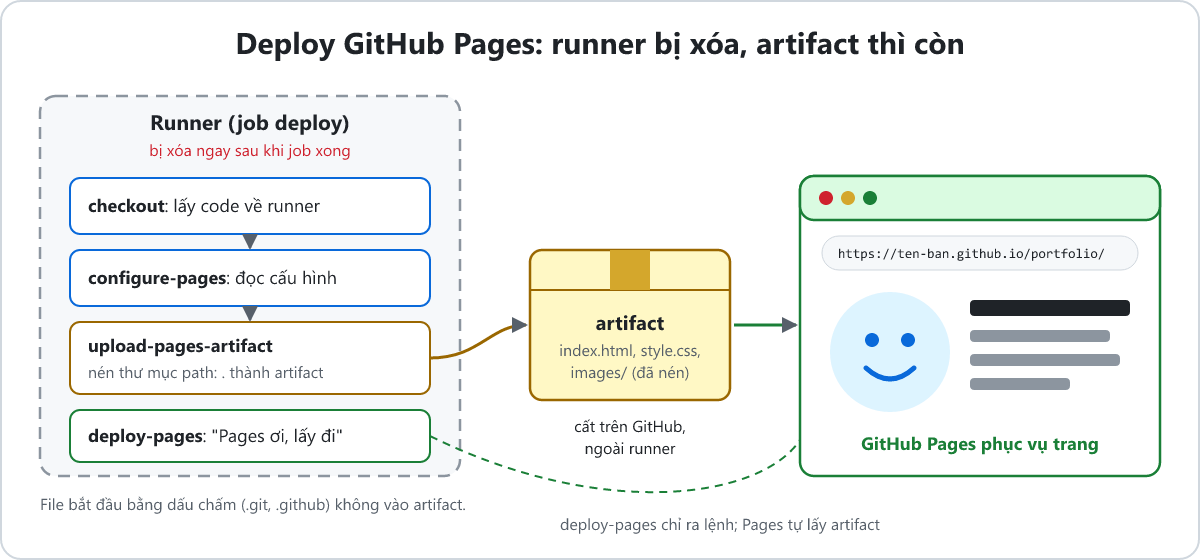
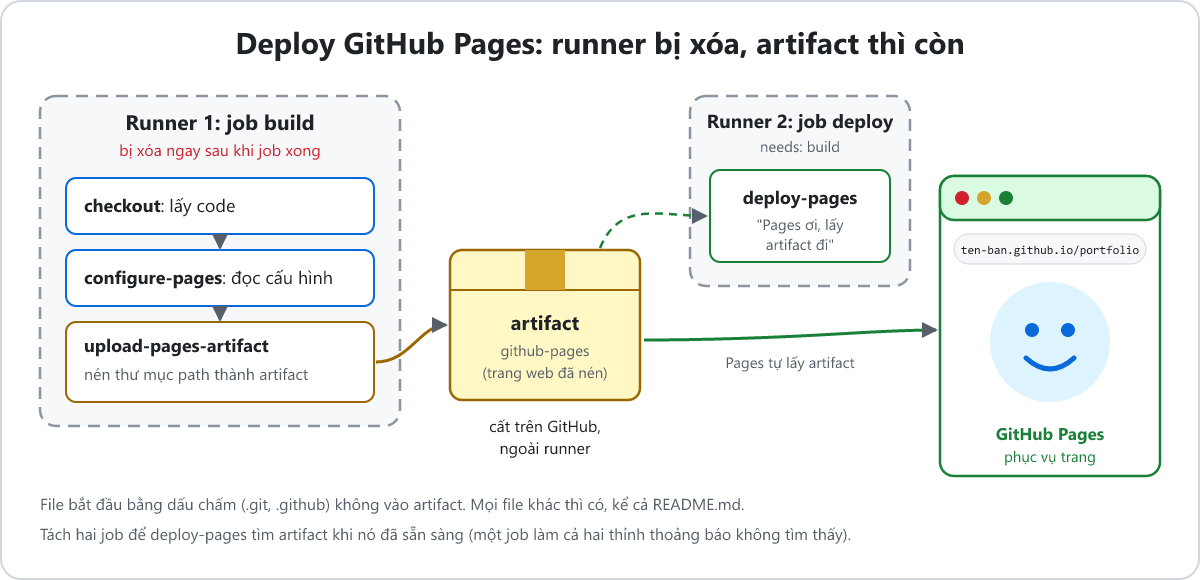
github-actions-basics: sửa theo lần chạy thử thật (#3)
Chạy lại chương 1–7 trên một repo sandbox công khai và sửa mọi chỗ bài học
khác thực tế: tách job build/deploy cho Pages, log thật của lychee, node --test,
GH013, environment, cache, script injection. Thêm ghi chú chương 6–7 là nâng cao,
phân biệt với track actions-docker, và sửa link tới example-track đã xóa.

Refs #2

diff --git a/tracks/github-actions-basics/modules/02-deploy-pages/lessons/02-link-check.md b/tracks/github-actions-basics/modules/02-deploy-pages/lessons/02-link-check.md
@@ -10,7 +10,7 @@ objectives:
 prerequisites:
   - github-actions-basics/deploy-pages/pages-workflow
 authors: [github:TienNHM]
-terms: [CI, CD, lychee, needs, if]
+terms: [CI, CD, lychee, if]
 ---
 
 # Chặn link hỏng trước khi deploy
@@ -23,17 +23,18 @@ terms: [CI, CD, lychee, needs, if]
 
 Ta dùng nó qua action `lycheeverse/lychee-action`, nên không cần cài gì lên máy.
 
-## 2. Hai job nối nhau bằng `needs`
+## 2. Ba job nối nhau bằng `needs`
 
-Nhớ lại chương 1: các job **mặc định chạy song song**. Nếu `check-links` và `deploy` chạy cùng lúc, link hỏng vẫn được deploy trước khi kiểm tra kịp báo đỏ. **`needs`** (*cần*) bắt một job chờ job khác:
+Bài trước đã có `needs: build`. Nhớ lại chương 1: các job **mặc định chạy song song**. Nếu `check-links` chạy song song với `build` và `deploy`, link hỏng vẫn được deploy trước khi kiểm tra kịp báo đỏ. Ta nối thành một chuỗi: `check-links` → `build` → `deploy`.
 
 ```mermaid
 flowchart LR
   P["push lên main"] --> C["job check-links"]
-  C -- xanh --> D["job deploy"]
-  C -- đỏ --> X["deploy bị bỏ qua, trang cũ giữ nguyên"]
+  C -->|"xanh"| B["job build"]
+  B --> D["job deploy"]
+  C -->|"đỏ"| X["build, deploy bị bỏ qua, trang cũ giữ nguyên"]
   PR["pull request"] --> C2["job check-links"]
-  C2 --> S["job deploy: bỏ qua vì if"]
+  C2 --> S["build bỏ qua vì if, deploy bỏ qua theo"]
 ```
 
 ## 3. Workflow hoàn chỉnh
@@ -65,22 +66,11 @@ jobs:
           args: --offline --no-progress '**/*.html'
           fail: true
 
-  deploy:
+  build:
     needs: check-links
-    # Chỉ deploy khi push lên main hoặc bấm Run workflow, không deploy từ pull request
+    # Chỉ đóng gói và deploy khi push lên main hoặc bấm Run workflow, không làm từ pull request
     if: github.event_name != 'pull_request'
     runs-on: ubuntu-latest
-    permissions:
-      contents: read
-      pages: write
-      id-token: write
-    # Không cho hai lần deploy chạy chồng lên nhau
-    concurrency:
-      group: pages
-      cancel-in-progress: false
-    environment:
-      name: github-pages
-      url: ${{ steps.deployment.outputs.page_url }}
     steps:
       - uses: actions/checkout@v7
 
@@ -91,6 +81,20 @@ jobs:
         with:
           path: .
 
+  deploy:
+    needs: build
+    runs-on: ubuntu-latest
+    permissions:
+      pages: write
+      id-token: write
+    # Không cho hai lần deploy chạy chồng lên nhau
+    concurrency:
+      group: pages
+      cancel-in-progress: false
+    environment:
+      name: github-pages
+      url: ${{ steps.deployment.outputs.page_url }}
+    steps:
       - name: Deploy lên GitHub Pages
         id: deployment
         uses: actions/deploy-pages@v5
@@ -103,8 +107,9 @@ jobs:
   - `lycheeverse/lychee-action@v2.9.0`: ghi đủ `v2.9.0` để biết chính xác bản đang chạy (tag `v2` cũng có, trỏ tới bản `v2.x` mới nhất).
   - `args`: tham số truyền cho lychee. `--offline` chỉ kiểm tra link trong repo; `--no-progress` tắt thanh tiến trình cho log gọn; `'**/*.html'` là mọi file `.html` ở mọi thư mục (`**` = mọi thư mục con). Giữ dấu nháy đơn để lychee tự tìm file.
   - `fail: true`: có link hỏng thì step đỏ (exit code khác 0).
-- `needs: check-links`: job `deploy` chờ `check-links` xong và **chỉ chạy khi nó xanh**.
-- `if: github.event_name != 'pull_request'`: **`if`** (*nếu*) là điều kiện; sai thì job bị bỏ qua (màu xám, *skipped*). `github.event_name` là tên event đã kích hoạt lần chạy, `!=` là "khác". Đọc cả dòng: "chỉ chạy nếu event **không phải** pull request". Trên PR ta chỉ kiểm tra, không deploy bản chưa được duyệt.
+- `needs: check-links`: job `build` chờ `check-links` xong và **chỉ chạy khi nó xanh**. Job `deploy` vẫn `needs: build` như bài trước.
+- `if: github.event_name != 'pull_request'`: **`if`** (*nếu*) là điều kiện; sai thì job bị bỏ qua (màu xám, *skipped*). `github.event_name` là tên event đã kích hoạt lần chạy, `!=` là "khác". Đọc cả dòng: "chỉ chạy nếu event **không phải** pull request". Trên PR ta chỉ kiểm tra, không đóng gói, không deploy bản chưa được duyệt.
+- Job `deploy` không cần `if` riêng: job nó `needs` (`build`) bị bỏ qua thì nó cũng bị bỏ qua. Trên PR, bạn thấy `check-links` xanh, còn `build` và `deploy` đều **skipped**.
 
 ## 4. Thử làm hỏng
 
@@ -123,25 +128,35 @@ git push -u origin thu-link-hong
 - `git commit -am`: `-a` = *all*, tự `add` mọi file đã theo dõi có thay đổi; `-m` = *message*.
 - `git push -u origin thu-link-hong`: đẩy nhánh lên GitHub; `-u` nhớ nhánh trên GitHub để lần sau chỉ cần `git push`.
 
-Mở pull request từ nhánh đó trên GitHub. Job `check-links` đỏ, log có dạng:
+Mở pull request từ nhánh đó trên GitHub. Job `check-links` đỏ. Cuối log của step **Kiểm tra link hỏng** có một bản tóm tắt (log thật, rút gọn vài dòng có số 0):
 
 ```text
-Issues found in 1 input. Find details below.
+# Summary
 
-[index.html]:
-[ERROR] file:///home/runner/work/portfolio/portfolio/abuot.html (at 12:15) | File not found. Check if file exists and path is correct
+| Status         | Count |
+|----------------|-------|
+| 🔍 Total       | 3     |
+| ✅ Successful  | 2     |
+| 🚫 Errors      | 1     |
 
-🔍 9 Total 🔗 9 Unique ✅ 8 OK 🚫 1 Error
+## Errors per input
+
+### Errors in index.html
+
+* [ERROR] <file:///home/runner/work/portfolio/portfolio/abuot.html> (at 1:106) | File not found. Check if file exists and path is correct
+
+Error: Process completed with exit code 2.
 ```
 
 **Đọc hiểu**
 
-- `[index.html]:` là file **chứa** link hỏng.
+- Bảng `Summary`: lychee tìm được 3 link, 2 tốt, 1 lỗi. Số của bạn sẽ khác, tuỳ trang.
+- `### Errors in index.html`: file **chứa** link hỏng.
 - `file:///home/runner/work/portfolio/portfolio/` là thư mục repo **trên runner** (checkout đặt code ở đó). Đây là bằng chứng lychee chạy trên máy ảo, không phải máy bạn.
-- `abuot.html` là file mà link trỏ tới nhưng không có. `(at 12:15)` là dòng 12, cột 15 trong `index.html`.
-- Dòng cuối đếm: 9 link, 8 tốt, 1 lỗi. Số của bạn sẽ khác, tuỳ trang.
+- `abuot.html` là file mà link trỏ tới nhưng không có. `(at 1:106)` là dòng 1, cột 106 trong `index.html`.
+- Bảng này cũng hiện ở trang lần chạy, mục **Summary**, dễ đọc hơn log.
 
-Sửa lại, commit, push lên nhánh: PR tự chạy lại và xanh. Job `deploy` trên PR luôn hiện **skipped**.
+Sửa lại, commit, push lên nhánh: PR tự chạy lại và xanh. Job `build` và `deploy` trên PR luôn hiện **skipped**.
 
 ## 5. Kiểm tra cả link ra ngoài?
 
@@ -162,11 +177,11 @@ Bỏ `--offline` thì lychee kiểm tra cả link tới LinkedIn, GitHub… Có 
 | Lỗi | Vì sao | Cách sửa |
 | --- | --- | --- |
 | `check-links` đỏ dù trang mở được trên máy | Sai hoa thường tên file (Windows, macOS không phân biệt, runner Linux thì có) | Đổi link cho khớp đúng tên file |
-| `deploy` chạy trên PR | Thiếu hoặc sai dòng `if` | Chép lại đúng dòng `if` ở mục 3 |
+| `build`, `deploy` chạy trên PR | Thiếu hoặc sai dòng `if` của job `build` | Chép lại đúng dòng `if` ở mục 3 |
 | Lỗi khác, hoặc chưa hiểu vì sao | | Gửi link lần chạy cho mentor, công khai hay **nhắn riêng** đều được (tab **Cài đặt** → "Hỏi ở đâu") |
 
 ## Tóm tắt
 
 - CI kiểm tra tự động mỗi lần thay đổi; lychee `--offline` bắt link hỏng trong repo.
-- `needs` nối job: deploy chỉ chạy khi kiểm tra xanh.
+- `needs` nối job thành chuỗi `check-links` → `build` → `deploy`: chỉ deploy khi kiểm tra xanh.
 - `if: github.event_name != 'pull_request'`: trên PR chỉ kiểm tra, không deploy.

diff --git a/tracks/github-actions-basics/modules/01-actions-basics/lessons/02-first-workflow.md b/tracks/github-actions-basics/modules/01-actions-basics/lessons/02-first-workflow.md
@@ -116,7 +116,22 @@ git push
 - `git add` đưa file workflow vào commit tiếp theo; `git commit` chốt; `git push` gửi lên GitHub.
 - Chính lệnh `git push` là **event** `push` đánh thức workflow.
 
-Mở repo trên GitHub, vào tab **Actions**. Bạn sẽ thấy một lần chạy mang tên commit message, chấm vàng (đang chạy) rồi dấu tick xanh. Bấm vào lần chạy, chọn job `hello`, mở từng step để xem output. Step **Chào** in tên repo và mã commit của bạn.
+Mở repo trên GitHub, vào tab **Actions**. Bạn sẽ thấy một lần chạy mang tên commit message, chấm vàng (đang chạy) rồi dấu tick xanh. Bấm vào lần chạy, chọn job `hello`, mở từng step để xem output. Ngoài ba step bạn viết, GitHub tự thêm step **Set up job** ở đầu (chuẩn bị máy) và **Complete job** ở cuối (dọn dẹp).
+
+Mở step **Chào**. Đây là log thật của một lần chạy thử (repo khác của bạn sẽ khác tên và mã commit):
+
+```text
+Run echo "Xin chào từ ten-ban/portfolio, commit 134130cedc6d21de4fc7d3d5b32e02055f8aceb9"
+  echo "Xin chào từ ten-ban/portfolio, commit 134130cedc6d21de4fc7d3d5b32e02055f8aceb9"
+  shell: /usr/bin/bash -e {0}
+Xin chào từ ten-ban/portfolio, commit 134130cedc6d21de4fc7d3d5b32e02055f8aceb9
+```
+
+**Đọc hiểu**
+
+- Dòng `Run echo ...` là lệnh runner **nhận được**: biểu thức `${{ }}` đã được thay bằng giá trị thật từ trước. Runner không hề thấy chữ `${{ github.repository }}`.
+- `shell: /usr/bin/bash -e {0}`: runner chạy lệnh bằng bash; `-e` nghĩa là dừng ngay khi có lệnh lỗi (bài sau).
+- Dòng cuối là output của `echo`.
 
 Repo **public** chạy Actions miễn phí. Repo private dùng vào số phút miễn phí hằng tháng của tài khoản.
 
@@ -154,7 +169,7 @@ on:
 - Dùng Tab để thụt lề: `Invalid workflow file`.
 - Viết `uses` và `run` trong **cùng một** step: mỗi step chỉ chọn một.
 - Quên `@v7`: GitHub báo lỗi vì không biết dùng phiên bản nào.
-- Viết `run: echo "Kết quả: xong"` trên một dòng: chữ `: ` (dấu hai chấm rồi dấu cách) bên trong làm YAML tưởng có thêm một khóa, báo `mapping values are not allowed`. Cách chắc ăn: viết `run: |` rồi đặt lệnh ở dòng dưới, thụt vào thêm 2 dấu cách:
+- Viết `run: echo "Kết quả: xong"` trên một dòng: chữ `: ` (dấu hai chấm rồi dấu cách) bên trong làm YAML tưởng có thêm một khóa. Khi chạy thử thật, lần chạy đỏ ngay, mang tên đường dẫn file (`.github/workflows/hello.yml`) thay cho commit message, và trang lần chạy báo `Invalid workflow file` kèm `You have an error in your yaml syntax on line 15` (số dòng của bạn có thể khác). Cách chắc ăn: viết `run: |` rồi đặt lệnh ở dòng dưới, thụt vào thêm 2 dấu cách:
 
   ```yaml
         run: |
@@ -170,7 +185,7 @@ Trong nhóm, file workflow được review như code: nó nằm trong repo, đi 
 | Lỗi | Vì sao | Cách sửa |
 | --- | --- | --- |
 | Tab Actions không có lần chạy nào | File sai thư mục hoặc sai đuôi | Đường dẫn phải là `.github/workflows/<tên>.yml` |
-| `Invalid workflow file` | Lỗi YAML | Mở file trên GitHub, dòng lỗi được tô đỏ; thường là Tab hoặc thiếu dấu cách sau `:` |
+| `Invalid workflow file`, kèm `You have an error in your yaml syntax on line N` | Lỗi YAML | Mở dòng N của file; thường là Tab, thiếu dấu cách sau `:`, hoặc `: ` nằm trong lệnh `run` một dòng |
 | `ls -la` chỉ thấy `.` và `..` | Thiếu step checkout | Thêm `uses: actions/checkout@v7` làm step đầu |
 | Lỗi khác, hoặc chưa hiểu vì sao | | Nhắn mentor của track, công khai hay **nhắn riêng** đều được (tab **Cài đặt** → "Hỏi ở đâu") |
 

diff --git a/TEACHING.md b/TEACHING.md
@@ -2,7 +2,7 @@
 
 Chuẩn này đến từ góp ý của thành viên mới sau **Git & GitHub Study Jam 2026** ([learning-hub-track-template#7](https://github.com/hcmute-dsc/learning-hub-track-template/issues/7)). Người học không than bài khó. Họ than ba điều: học lệnh mà không hiểu chữ, phải hỏi AI mới hiểu bài, và ngại hỏi người dạy.
 
-Mỗi bài học và bài tập trong track phải đạt **6 tiêu chí** dưới đây. Người review kiểm tra theo checklist trong mẫu Pull Request. Bài mẫu áp dụng đủ 6 tiêu chí: [`03-teaching-standard.md`](tracks/example-track/modules/01-getting-started/lessons/03-teaching-standard.md).
+Mỗi bài học và bài tập trong track phải đạt **6 tiêu chí** dưới đây. Người review kiểm tra theo checklist trong mẫu Pull Request. Bài mẫu áp dụng đủ 6 tiêu chí: [`02-ci-workflow.md`](tracks/github-actions-basics/modules/03-ci-tests/lessons/02-ci-workflow.md) (chương 3, "Workflow CI": có từ vựng, phần Đọc hiểu sau mỗi khối lệnh, sơ đồ, Ngoài thực tế, bảng Khi bị lỗi).
 
 | # | Tiêu chí | Một câu để nhớ |
 | --- | --- | --- |
@@ -34,11 +34,11 @@ Mỗi bài có hộp **"Từ mới trong bài"** liệt kê 3–7 từ bài đó
 
 **Khai báo từ vựng** ([learning-hub#106](https://github.com/hcmute-dsc/learning-hub/issues/106)):
 
-1. Ghi mỗi từ một lần trong `tracks/<slug>/glossary.yaml`: `term`, `expansion` (chữ đầy đủ), `literal` (nghĩa đen), `meaning`, `example`, `see`. Mẫu: `tracks/example-track/glossary.yaml`.
+1. Ghi mỗi từ một lần trong `tracks/<slug>/glossary.yaml`: `term`, `expansion` (chữ đầy đủ), `literal` (nghĩa đen), `meaning`, `example`, `see`. Mẫu: [`tracks/github-actions-basics/glossary.yaml`](tracks/github-actions-basics/glossary.yaml).
 2. Trong front matter của bài, liệt kê từ bài đó giới thiệu: `terms: [repository, init, commit]`.
 3. Viết từ đó trong **câu văn** ở lần đầu nó xuất hiện, không chỉ trong khối code.
 
-Site làm phần còn lại: hộp "Từ mới trong bài" thu gọn ở cuối bài để ôn lại, gạch chân chấm và chú thích ở lần đầu từ xuất hiện (chạm vào là thấy nghĩa), và tab **Từ vựng** của track (A–Z, ô tìm, "Học ở bài …"). Validator báo lỗi nếu một từ trong `terms:` không có trong `glossary.yaml`. Mẫu đầy đủ: bài `03-teaching-standard.md`.
+Site làm phần còn lại: hộp "Từ mới trong bài" thu gọn ở cuối bài để ôn lại, gạch chân chấm và chú thích ở lần đầu từ xuất hiện (chạm vào là thấy nghĩa), và tab **Từ vựng** của track (A–Z, ô tìm, "Học ở bài …"). Validator báo lỗi nếu một từ trong `terms:` không có trong `glossary.yaml`. Mẫu đầy đủ: bài [`02-ci-workflow.md`](tracks/github-actions-basics/modules/03-ci-tests/lessons/02-ci-workflow.md).
 
 ## T2. Giải thích trước khi thực hành
 
@@ -82,7 +82,7 @@ Dự án cuối track nên có ít nhất một lần làm theo quy trình nhóm
 
 ## T5. Cài đặt
 
-**Yêu cầu.** `docs/setup.md` có đủ mọi thứ track cần, theo thứ tự làm, cho Windows, macOS và Linux. Lấy hai mục **"Chuẩn bị chung"** và **"Hỏi ở đâu"** từ [`docs/setup.md` mẫu](tracks/example-track/docs/setup.md), rồi thêm phần riêng của track.
+**Yêu cầu.** `docs/setup.md` có đủ mọi thứ track cần, theo thứ tự làm, cho Windows, macOS và Linux. Lấy hai mục **"Chuẩn bị chung"** và **"Hỏi ở đâu"** từ [`docs/setup.md` của track này](tracks/github-actions-basics/docs/setup.md), rồi thêm phần riêng của track.
 
 Những chỗ hay bị quên:
 

diff --git a/tracks/github-actions-basics/modules/07-workflow-security/lessons/03-script-injection.md b/tracks/github-actions-basics/modules/07-workflow-security/lessons/03-script-injection.md
@@ -64,6 +64,21 @@ echo "Tiêu đề PR: Sửa lỗi"; echo "ĐÃ CHẠY LỆNH CỦA NGƯỜI LẠ
 - `;` kết thúc lệnh `echo` thứ nhất. Mọi thứ sau đó là **lệnh mới** do người lạ viết.
 - Log in hai dòng: `Tiêu đề PR: Sửa lỗi` và `ĐÃ CHẠY LỆNH CỦA NGƯỜI LẠ`.
 
+Đây là log thật khi chạy thử, với đúng tiêu đề PR ở trên (lệnh chen vào chỉ là `echo`, vô hại):
+
+```text
+Run echo "Tiêu đề PR: Sửa lỗi"; echo "ĐÃ CHẠY LỆNH CỦA NGƯỜI LẠ"
+  echo "Tiêu đề PR: Sửa lỗi"; echo "ĐÃ CHẠY LỆNH CỦA NGƯỜI LẠ"
+  shell: /usr/bin/bash -e {0}
+Tiêu đề PR: Sửa lỗi
+ĐÃ CHẠY LỆNH CỦA NGƯỜI LẠ
+```
+
+**Đọc hiểu**
+
+- Dòng `Run ...` là script runner nhận được, **sau khi** GitHub đã dán tiêu đề vào. Nhìn là thấy hai lệnh nối nhau bằng `;`.
+- Hai dòng cuối là output của hai lệnh `echo`: lệnh thứ hai do người mở PR viết, không phải bạn.
+
 Ở đây lệnh chen vào chỉ là `echo`. Kẻ xấu sẽ thay nó bằng lệnh gửi token đi, gọi là **payload** (*phần tải*: đoạn lệnh độc được chở theo). Kiểu tấn công này gọi là **script injection** (*tiêm lệnh vào script*).
 
 ![Script injection: tiêu đề PR do người lạ gõ đi vào ô biểu thức trong dòng run; GitHub dán chữ vào script; dấu nháy và dấu chấm phẩy trong tiêu đề cắt script làm hai, phần sau thành lệnh thật chạy trên runner. Bên phải: cách an toàn, tiêu đề đi qua biến môi trường nên bash chỉ coi nó là chữ.](../../../assets/script-injection.png)
@@ -94,7 +109,7 @@ Với event `pull_request` từ fork, token chỉ đọc và không có secret (
 
 - GitHub đặt tiêu đề vào **biến môi trường** `PR_TITLE`. Bước này không dán gì vào script.
 - Script runner nhận là `echo "Tiêu đề PR: $PR_TITLE"`, **cố định**, không phụ thuộc tiêu đề.
-- Bash thay `$PR_TITLE` **lúc chạy**, và coi giá trị là **chữ**, không phải lệnh. Log in nguyên văn: `Tiêu đề PR: Sửa lỗi"; echo "ĐÃ CHẠY LỆNH CỦA NGƯỜI LẠ`.
+- Bash thay `$PR_TITLE` **lúc chạy**, và coi giá trị là **chữ**, không phải lệnh. Log thật khi chạy thử: dòng `Run` chỉ có `echo "Tiêu đề PR: $PR_TITLE"`, và output in nguyên văn một dòng `Tiêu đề PR: Sửa lỗi"; echo "ĐÃ CHẠY LỆNH CỦA NGƯỜI LẠ`.
 
 Đây chính là quy tắc bạn đã dùng từ chương 4: **trong `run`, đọc biến bằng `$TEN`**, không dán `${{ }}` vào. Giờ bạn biết vì sao.
 

diff --git a/tracks/github-actions-basics/modules/01-actions-basics/lessons/03-read-the-log.md b/tracks/github-actions-basics/modules/01-actions-basics/lessons/03-read-the-log.md
@@ -75,7 +75,7 @@ Commit và push. Trong tab **Actions**, lần chạy mới có dấu X đỏ.
 
 1. **Mở lần chạy đỏ**, chọn job có dấu X.
 2. **Tìm step đỏ đầu tiên.** Các step sau nó màu xám, đừng đọc chúng.
-3. **Đọc từ dưới lên** trong step đó. Dòng cuối thường là `Error: Process completed with exit code 2.`; dòng ngay trên mới là **nguyên nhân**:
+3. **Đọc từ dưới lên** trong step đó. Dòng cuối thường là `Error: Process completed with exit code 2.`; dòng ngay trên mới là **nguyên nhân**. Log thật của lần chạy thử:
 
 ```text
 ls: cannot access 'thu-muc-khong-co': No such file or directory
@@ -85,7 +85,7 @@ Error: Process completed with exit code 2.
 **Đọc hiểu**
 
 - Dòng 1 do lệnh `ls` in ra: nó không truy cập được thư mục, vì không có.
-- Dòng 2 do runner in ra: lệnh trả về exit code 2, nên runner đánh dấu step đỏ.
+- Dòng 2 do runner in ra: lệnh trả về exit code 2, nên runner đánh dấu step đỏ. Nếu bạn tải log thô (biểu tượng bánh răng ở góc trên khung log → **View raw logs**), dòng này hiện là `##[error]Process completed with exit code 2.`: `##[error]` là cách runner đánh dấu dòng lỗi, trang web tô đỏ và đổi thành `Error:`.
 - Muốn sửa thì sửa theo dòng 1, không phải dòng 2.
 
 ## 5. Những lỗi hay gặp
@@ -93,7 +93,7 @@ Error: Process completed with exit code 2.
 | Bạn thấy | Nguyên nhân thường gặp |
 | --- | --- |
 | Không có lần chạy nào trong tab Actions | File không nằm đúng `.github/workflows/`, hoặc đuôi không phải `.yml`/`.yaml`, hoặc `on:` không khớp event |
-| `Invalid workflow file` trên trang lần chạy | Lỗi YAML: thụt lề sai, dùng Tab, thiếu dấu `:` |
+| `Invalid workflow file` và `You have an error in your yaml syntax on line N` trên trang lần chạy; lần chạy mang tên đường dẫn file | Lỗi YAML ở dòng N: thụt lề sai, dùng Tab, thiếu dấu `:`, hoặc `: ` trong lệnh `run` một dòng |
 | `No such file or directory` | Quên step `actions/checkout`, hoặc sai đường dẫn (Linux phân biệt hoa thường: `Index.html` khác `index.html`) |
 | `command not found` (exit code 127) | Lệnh không có trên runner, hoặc gõ sai tên |
 | Exit code 1 mà không rõ lý do | Thêm `set -x` ở đầu `run` để in từng lệnh trước khi chạy (đừng làm vậy ở step có secret, chương 4) |

diff --git a/tracks/github-actions-basics/modules/05-matrix-cache/lessons/02-cache.md b/tracks/github-actions-basics/modules/05-matrix-cache/lessons/02-cache.md
@@ -76,7 +76,29 @@ Cái quyết định "thư viện nào được cài" là **lockfile** (chương
 - Nó **không** cache `node_modules/`. `npm ci` vẫn chạy và vẫn xóa `node_modules/`, nhưng lấy file từ `~/.npm` trên máy thay vì tải từ internet.
 - Cần có `package-lock.json` trong repo, nếu không step báo lỗi không tìm thấy file để tính key.
 
-Lần chạy đầu, log của step setup-node có dòng kiểu `npm cache is not found` (miss), và cuối job có step **Post Cài Node.js…** lưu cache. Lần chạy sau (lockfile không đổi), log có `Cache restored from key: node-cache-Linux-x64-npm-…` (hit).
+Log thật của lần chạy thử (mã hash rút gọn):
+
+```text
+# Lần đầu, step "Cài Node.js 24":
+npm cache is not found
+# ...cuối job, step "Post Cài Node.js 24":
+Cache saved with the key: node-cache-Linux-x64-npm-eb8dace7…
+
+# Lần sau, lockfile không đổi, step "Cài Node.js 26":
+Cache hit for: node-cache-Linux-x64-npm-eb8dace7…
+Cache restored successfully
+Cache restored from key: node-cache-Linux-x64-npm-eb8dace7…
+# ...cuối job:
+Cache hit occurred on the primary key node-cache-Linux-x64-npm-eb8dace7…, not saving cache.
+```
+
+**Đọc hiểu**
+
+- `npm cache is not found`: **miss**, chưa có ngăn nào mang key này.
+- `Cache saved with the key: …`: step **Post** (chạy ở cuối job) cất ngăn mới.
+- `Cache restored from key: …`: **hit**, đã lấy đồ ra.
+- `not saving cache`: key đã có ngăn, không ghi đè (mục 1).
+- Key **không** chứa phiên bản Node, nên ba job của matrix dùng **chung một ngăn**. Trong lần chạy thử, job Node 24 xong trước và lưu cache; job 22 và 26 chạy sau một chút đã trúng luôn ngăn đó ngay trong lần chạy đầu. Với `~/.npm` thì không sao, vì thư viện tải về không phụ thuộc phiên bản Node.
 
 Project `diem-trung-binh` chưa có thư viện nào nên cache rất nhỏ và bạn khó thấy nhanh hơn. Với project thật, thời gian `npm ci` có thể giảm từ cả phút xuống vài giây.
 

diff --git a/tracks/github-actions-basics/modules/06-reuse/lessons/01-reusable-workflow.md b/tracks/github-actions-basics/modules/06-reuse/lessons/01-reusable-workflow.md
@@ -15,6 +15,8 @@ terms: [reusable workflow, workflow_call, caller, input, output, DRY]
 
 # Reusable workflow: gọi cả một workflow như gọi hàm
 
+> **Chương nâng cao.** Chương 6 và 7 có thể học sau chương 5, khi bạn đã quen viết workflow. Dự án cuối (chương 8) cần cả hai chương này.
+
 Repo của bạn giờ có `ci.yml`, `report.yml`, `deploy-demo.yml`, và cả ba đều lặp lại cùng một đoạn: checkout → setup-node → `npm ci` → `npm test`. Muốn đổi cách cài (ví dụ thêm cache) là phải sửa ba chỗ, sót một chỗ là ba workflow chạy ba kiểu. Lập trình viên gọi nguyên tắc tránh điều này là **DRY** (*Don't Repeat Yourself*, *đừng lặp lại chính mình*).
 
 Chương này có hai công cụ để không lặp lại: **reusable workflow** (bài này) và **composite action** (bài sau).
@@ -116,7 +118,7 @@ jobs:
 - `./.github/workflows/node-test.yml`: đường dẫn trong **cùng repo**, bắt đầu bằng `./`.
 - `with: node-version: ...`: truyền input. Kết hợp với matrix: mỗi giá trị matrix gọi workflow một lần.
 
-Mở PR: check bây giờ có tên dạng `CI / test (22) / run-tests (pull_request)`: tên job gọi, rồi tên job bên trong. Required check trong ruleset cũng phải đổi theo: `test (22) / run-tests` và hai check tương tự cho 24, 26.
+Mở PR: check bây giờ có tên dạng `CI / test (22) / run-tests (pull_request)`: tên job gọi, rồi tên job bên trong (lần chạy thử ra đúng ba check `test (22) / run-tests`, `test (24) / run-tests`, `test (26) / run-tests`). Trong tab **Actions**, `node-test.yml` cũng hiện thành một workflow riêng tên **Node test (reusable)**, nhưng nó chỉ chạy khi được gọi. Required check trong ruleset cũng phải đổi theo: `test (22) / run-tests` và hai check tương tự cho 24, 26.
 
 ## 4. Secret không tự đi theo
 

diff --git a/tracks/github-actions-basics/modules/03-ci-tests/lessons/02-ci-workflow.md b/tracks/github-actions-basics/modules/03-ci-tests/lessons/02-ci-workflow.md
@@ -118,7 +118,25 @@ git push -u origin sua-xep-loai
 - `git commit -am` commit mọi file đã theo dõi có thay đổi; `git push -u origin sua-xep-loai` đẩy nhánh lên GitHub.
 - Trên trang repo, GitHub hiện nút **Compare & pull request**. Bấm, rồi **Create pull request**.
 
-Ở cuối trang PR, mục kiểm tra hiện chấm vàng rồi dấu X đỏ: `CI / test (pull_request)` thất bại. Bấm **Details** để mở log, tìm step **Chạy test**, đọc từ dưới lên như chương 1. Bạn sẽ thấy `classify(8.5)` trả về `'Khá'` trong khi test mong `'Giỏi'`.
+Ở cuối trang PR, mục kiểm tra hiện chấm vàng rồi dấu X đỏ: `CI / test (pull_request)` thất bại. Bấm **Details** để mở log, tìm step **Chạy test**, đọc từ dưới lên như chương 1. Log thật của lần chạy thử (rút gọn):
+
+```text
+✖ classify xếp loại đúng (0.70ms)
+  AssertionError [ERR_ASSERTION]: Expected values to be strictly equal:
+
+  'Khá' !== 'Giỏi'
+
+      at TestContext.<anonymous> (/home/runner/work/diem-trung-binh/diem-trung-binh/test/grade.test.js:15:10)
+    actual: 'Khá',
+    expected: 'Giỏi',
+Error: Process completed with exit code 1.
+```
+
+**Đọc hiểu**
+
+- `'Khá' !== 'Giỏi'`: code trả về `'Khá'`, test mong `'Giỏi'` (`!==` là "khác"). Đây là kiểu so sánh gọn mà Node dùng cho chuỗi ngắn; bài trước bạn thấy kiểu `+ actual - expected`. Hai dòng `actual:` / `expected:` thì luôn có.
+- `grade.test.js:15:10`: dòng 15 là `assert.equal(classify(8.5), "Giỏi")`. Vậy `classify(8.5)` đang trả về `'Khá'`.
+- `/home/runner/work/...`: đường dẫn trên runner, không phải máy bạn.
 
 Có hai cách xử lý, và **chính bạn** phải quyết định cách nào đúng:
 
